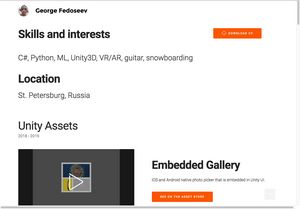
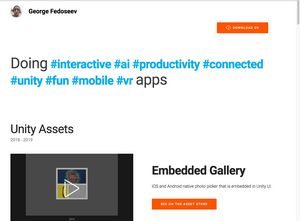
updated header

diff --git a/index.html b/index.html
@@ -38,7 +38,7 @@
 <!-- /Google Analytics -->
 
 
-  <section id="ext_menu-e" data-rv-view="14">
+  <section id="ext_menu-e" data-rv-view="10">
 
     <nav class="navbar navbar-dropdown transparent bg-color">
         <div class="container">
@@ -71,7 +71,18 @@
 
 </section>
 
-<section class="engine"><a href="https://mobirise.info/k">develop your own website</a></section><section class="mbr-info mbr-info-extra mbr-section mbr-section-md-padding mbr-after-navbar" id="msg-box1-1u" data-rv-view="0" style="background-color: rgb(255, 255, 255); padding-top: 120px; padding-bottom: 30px;">
+<section class="engine"><a href="https://mobirise.info/c">free site builder</a></section><section class="mbr-section mbr-section__container article mbr-after-navbar" id="header3-23" data-rv-view="3" style="background-color: rgb(255, 255, 255); padding-top: 120px; padding-bottom: 40px;">
+    <div class="container">
+        <div class="row">
+            <div class="col-xs-12">
+                <h3 class="mbr-section-title display-2"><span style="font-weight: normal;">Doing</span> #interactive #ai #productivity #connected #unity #fun #mobile #vr&nbsp;<span style="font-weight: normal;">apps</span></h3>
+                
+            </div>
+        </div>
+    </div>
+</section>
+
+<section class="mbr-info mbr-info-extra mbr-section mbr-section-md-padding" id="msg-box1-1u" data-rv-view="0" style="background-color: rgb(255, 255, 255); padding-top: 0px; padding-bottom: 0px;">
 
     
     <div class="container">
@@ -84,7 +95,7 @@
             <div class="mbr-table-md-up">
                 <div class="mbr-table-cell mbr-right-padding-md-up col-md-8 text-xs-center text-md-left">
                     
-                    <h3 class="mbr-info-title mbr-section-title display-2">Skills and interests</h3>
+                    
                 </div>
 
                 <div class="mbr-table-cell col-md-4">
@@ -97,40 +108,7 @@
     </div>
 </section>
 
-<section class="mbr-section article mbr-section__container" id="content1-s" data-rv-view="3" style="background-color: rgb(255, 255, 255); padding-top: 20px; padding-bottom: 20px;">
-
-    <div class="container">
-        <div class="row">
-            <div class="col-xs-12 lead"><p>
-</p><p>C#, Python, ML, Unity3D, VR/AR, guitar, snowboarding</p></div>
-        </div>
-    </div>
-
-</section>
-
-<section class="mbr-section mbr-section__container article" id="header3-v" data-rv-view="5" style="background-color: rgb(255, 255, 255); padding-top: 20px; padding-bottom: 20px;">
-    <div class="container">
-        <div class="row">
-            <div class="col-xs-12">
-                <h3 class="mbr-section-title display-2">Location</h3>
-                
-            </div>
-        </div>
-    </div>
-</section>
-
-<section class="mbr-section article mbr-section__container" id="content1-q" data-rv-view="7" style="background-color: rgb(255, 255, 255); padding-top: 0px; padding-bottom: 20px;">
-
-    <div class="container">
-        <div class="row">
-            <div class="col-xs-12 lead"><p>
-</p><p>St. Petersburg, Russia</p></div>
-        </div>
-    </div>
-
-</section>
-
-<section class="mbr-section mbr-section__container article" id="header3-1w" data-rv-view="9" style="background-color: rgb(255, 255, 255); padding-top: 60px; padding-bottom: 0px;">
+<section class="mbr-section mbr-section__container article" id="header3-1w" data-rv-view="5" style="background-color: rgb(255, 255, 255); padding-top: 60px; padding-bottom: 0px;">
     <div class="container">
         <div class="row">
             <div class="col-xs-12">
@@ -141,7 +119,7 @@
     </div>
 </section>
 
-<section class="mbr-section" id="msg-box4-1z" data-rv-view="11" style="background-color: rgb(255, 255, 255); padding-top: 40px; padding-bottom: 40px;">
+<section class="mbr-section" id="msg-box4-1z" data-rv-view="7" style="background-color: rgb(255, 255, 255); padding-top: 40px; padding-bottom: 40px;">
 
     
     <div class="container">
@@ -175,7 +153,7 @@
 
 </section>
 
-<section class="mbr-section" id="msg-box4-1v" data-rv-view="16" style="background-color: rgb(255, 255, 255); padding-top: 40px; padding-bottom: 40px;">
+<section class="mbr-section" id="msg-box4-1v" data-rv-view="12" style="background-color: rgb(255, 255, 255); padding-top: 40px; padding-bottom: 40px;">
 
     
     <div class="container">
@@ -209,7 +187,7 @@
 
 </section>
 
-<section class="mbr-section" id="msg-box4-20" data-rv-view="19" style="background-color: rgb(255, 255, 255); padding-top: 40px; padding-bottom: 40px;">
+<section class="mbr-section" id="msg-box4-20" data-rv-view="15" style="background-color: rgb(255, 255, 255); padding-top: 40px; padding-bottom: 40px;">
 
     
     <div class="container">
@@ -243,7 +221,7 @@
 
 </section>
 
-<section class="mbr-section mbr-section__container article" id="header3-1m" data-rv-view="22" style="background-color: rgb(0, 0, 0); padding-top: 60px; padding-bottom: 0px;">
+<section class="mbr-section mbr-section__container article" id="header3-1m" data-rv-view="18" style="background-color: rgb(0, 0, 0); padding-top: 60px; padding-bottom: 0px;">
     <div class="container">
         <div class="row">
             <div class="col-xs-12">
@@ -254,7 +232,7 @@
     </div>
 </section>
 
-<section class="mbr-section" id="msg-box4-1n" data-rv-view="24" style="background-color: rgb(0, 0, 0); padding-top: 40px; padding-bottom: 120px;">
+<section class="mbr-section" id="msg-box4-1n" data-rv-view="20" style="background-color: rgb(0, 0, 0); padding-top: 40px; padding-bottom: 120px;">
 
     
     <div class="container">
@@ -288,7 +266,7 @@
 
 </section>
 
-<section class="mbr-section" id="msg-box6-m" data-rv-view="27" style="background-image: url(assets/images/coffe-with-kate-2000x1333.jpg); padding-top: 80px; padding-bottom: 80px;">
+<section class="mbr-section" id="msg-box6-m" data-rv-view="23" style="background-image: url(assets/images/coffe-with-kate-2000x1333.jpg); padding-top: 80px; padding-bottom: 80px;">
 
     <div class="mbr-overlay" style="opacity: 0.7; background-color: rgb(0, 0, 0);">
     </div>
@@ -323,7 +301,7 @@
 
 </section>
 
-<section class="mbr-section mbr-section__container article" id="header3-y" data-rv-view="30" style="background-color: rgb(255, 255, 255); padding-top: 60px; padding-bottom: 40px;">
+<section class="mbr-section mbr-section__container article" id="header3-y" data-rv-view="26" style="background-color: rgb(255, 255, 255); padding-top: 60px; padding-bottom: 40px;">
     <div class="container">
         <div class="row">
             <div class="col-xs-12">
@@ -334,7 +312,7 @@
     </div>
 </section>
 
-<section class="mbr-section" id="msg-box4-1q" data-rv-view="32" style="background-color: rgb(242, 242, 242); padding-top: 40px; padding-bottom: 40px;">
+<section class="mbr-section" id="msg-box4-1q" data-rv-view="28" style="background-color: rgb(242, 242, 242); padding-top: 40px; padding-bottom: 40px;">
 
     
     <div class="container">
@@ -368,7 +346,7 @@
 
 </section>
 
-<section class="mbr-section" id="msg-box4-18" data-rv-view="35" style="background-color: rgb(242, 242, 242); padding-top: 40px; padding-bottom: 40px;">
+<section class="mbr-section" id="msg-box4-18" data-rv-view="31" style="background-color: rgb(242, 242, 242); padding-top: 40px; padding-bottom: 40px;">
 
     
     <div class="container">
@@ -402,7 +380,7 @@
 
 </section>
 
-<section class="mbr-section" id="msg-box4-16" data-rv-view="38" style="background-color: rgb(242, 242, 242); padding-top: 40px; padding-bottom: 40px;">
+<section class="mbr-section" id="msg-box4-16" data-rv-view="34" style="background-color: rgb(242, 242, 242); padding-top: 40px; padding-bottom: 40px;">
 
     
     <div class="container">
@@ -436,7 +414,7 @@
 
 </section>
 
-<section class="mbr-section" id="msg-box4-11" data-rv-view="41" style="background-color: rgb(242, 242, 242); padding-top: 40px; padding-bottom: 40px;">
+<section class="mbr-section" id="msg-box4-11" data-rv-view="37" style="background-color: rgb(242, 242, 242); padding-top: 40px; padding-bottom: 40px;">
 
     
     <div class="container">
@@ -470,7 +448,7 @@
 
 </section>
 
-<section class="mbr-section" id="msg-box4-12" data-rv-view="44" style="background-color: rgb(242, 242, 242); padding-top: 40px; padding-bottom: 40px;">
+<section class="mbr-section" id="msg-box4-12" data-rv-view="40" style="background-color: rgb(242, 242, 242); padding-top: 40px; padding-bottom: 40px;">
 
     
     <div class="container">
@@ -504,7 +482,7 @@
 
 </section>
 
-<section class="mbr-section" id="msg-box4-13" data-rv-view="47" style="background-color: rgb(242, 242, 242); padding-top: 40px; padding-bottom: 40px;">
+<section class="mbr-section" id="msg-box4-13" data-rv-view="43" style="background-color: rgb(242, 242, 242); padding-top: 40px; padding-bottom: 40px;">
 
     
     <div class="container">
@@ -538,7 +516,7 @@
 
 </section>
 
-<section class="mbr-section mbr-section__container article" id="header3-14" data-rv-view="50" style="background-color: rgb(255, 255, 255); padding-top: 100px; padding-bottom: 40px;">
+<section class="mbr-section mbr-section__container article" id="header3-14" data-rv-view="46" style="background-color: rgb(255, 255, 255); padding-top: 100px; padding-bottom: 40px;">
     <div class="container">
         <div class="row">
             <div class="col-xs-12">
@@ -549,7 +527,7 @@
     </div>
 </section>
 
-<section class="mbr-section" id="msg-box4-15" data-rv-view="52" style="background-color: rgb(242, 242, 242); padding-top: 40px; padding-bottom: 40px;">
+<section class="mbr-section" id="msg-box4-15" data-rv-view="48" style="background-color: rgb(242, 242, 242); padding-top: 40px; padding-bottom: 40px;">
 
     
     <div class="container">
@@ -583,7 +561,7 @@
 
 </section>
 
-<section class="mbr-section mbr-section__container article" id="header3-k" data-rv-view="55" style="background-color: rgb(255, 255, 255); padding-top: 80px; padding-bottom: 20px;">
+<section class="mbr-section mbr-section__container article" id="header3-k" data-rv-view="51" style="background-color: rgb(255, 255, 255); padding-top: 80px; padding-bottom: 20px;">
     <div class="container">
         <div class="row">
             <div class="col-xs-12">
@@ -594,7 +572,7 @@
     </div>
 </section>
 
-<section class="mbr-section" id="msg-box6-o" data-rv-view="57" style="background-image: url(assets/images/pmmap-header-2000x1337.jpg); padding-top: 40px; padding-bottom: 40px;">
+<section class="mbr-section" id="msg-box6-o" data-rv-view="53" style="background-image: url(assets/images/pmmap-header-2000x1337.jpg); padding-top: 40px; padding-bottom: 40px;">
 
     
     <div class="container">
@@ -628,7 +606,7 @@
 
 </section>
 
-<section class="mbr-section mbr-section__container article" id="header3-21" data-rv-view="69" style="background-color: rgb(255, 255, 255); padding-top: 80px; padding-bottom: 20px;">
+<section class="mbr-section mbr-section__container article" id="header3-21" data-rv-view="56" style="background-color: rgb(255, 255, 255); padding-top: 80px; padding-bottom: 20px;">
     <div class="container">
         <div class="row">
             <div class="col-xs-12">
@@ -639,7 +617,7 @@
     </div>
 </section>
 
-<section class="mbr-section mbr-parallax-background" id="msg-box6-22" data-rv-view="71" style="background-image: url(assets/images/cloudy-sky-4f4811ade0045-hires-2000x1333.jpg); padding-top: 80px; padding-bottom: 80px;">
+<section class="mbr-section mbr-parallax-background" id="msg-box6-22" data-rv-view="58" style="background-image: url(assets/images/cloudy-sky-4f4811ade0045-hires-2000x1333.jpg); padding-top: 80px; padding-bottom: 80px;">
 
     <div class="mbr-overlay" style="opacity: 0.3; background-color: rgb(0, 0, 0);">
     </div>
@@ -674,7 +652,7 @@
 
 </section>
 
-<section class="mbr-section mbr-section__container article" id="header3-i" data-rv-view="60" style="background-color: rgb(255, 255, 255); padding-top: 80px; padding-bottom: 20px;">
+<section class="mbr-section mbr-section__container article" id="header3-i" data-rv-view="61" style="background-color: rgb(255, 255, 255); padding-top: 80px; padding-bottom: 20px;">
     <div class="container">
         <div class="row">
             <div class="col-xs-12">
@@ -685,7 +663,7 @@
     </div>
 </section>
 
-<section class="mbr-section" id="msg-box6-j" data-rv-view="62" style="background-image: url(assets/images/space-purple-1920x1200.jpg); padding-top: 80px; padding-bottom: 80px;">
+<section class="mbr-section" id="msg-box6-j" data-rv-view="63" style="background-image: url(assets/images/space-purple-1920x1200.jpg); padding-top: 80px; padding-bottom: 80px;">
 
     <div class="mbr-overlay" style="opacity: 0.3; background-color: rgb(0, 0, 0);">
     </div>
@@ -720,7 +698,7 @@
 
 </section>
 
-<section class="mbr-section mbr-section__container article" id="header3-w" data-rv-view="65" style="background-color: rgb(255, 255, 255); padding-top: 140px; padding-bottom: 20px;">
+<section class="mbr-section mbr-section__container article" id="header3-w" data-rv-view="66" style="background-color: rgb(255, 255, 255); padding-top: 140px; padding-bottom: 20px;">
     <div class="container">
         <div class="row">
             <div class="col-xs-12">
@@ -731,7 +709,7 @@
     </div>
 </section>
 
-<section class="mbr-section article mbr-section__container" id="content1-x" data-rv-view="67" style="background-color: rgb(255, 255, 255); padding-top: 0px; padding-bottom: 140px;">
+<section class="mbr-section article mbr-section__container" id="content1-x" data-rv-view="68" style="background-color: rgb(255, 255, 255); padding-top: 0px; padding-bottom: 140px;">
 
     <div class="container">
         <div class="row">

diff --git a/assets/mobirise/css/mbr-additional.css b/assets/mobirise/css/mbr-additional.css
@@ -6,6 +6,8 @@
 
 
 
+
+
 body,
 input,
 textarea,
@@ -413,24 +415,29 @@ h6,
 .mbr-gallery-filter li:hover {
   color: #fc5500;
 }
+#header3-23 .mbr-section-title,
+#header3-23 .mbr-section-subtitle {
+  text-align: center;
+}
+#header3-23 .mbr-section-title {
+  color: #00aeec;
+  text-align: left;
+}
+#header3-23 .mbr-section-title SPAN {
+  color: #3e3e3e;
+  font-size: 60px;
+}
 #msg-box1-1u .btn {
   font-size: 12px;
 }
-#content1-s P {
-  font-size: 32px;
-}
-#header3-v .mbr-section-title,
-#header3-v .mbr-section-subtitle {
-  text-align: center;
-}
-#header3-v .mbr-section-title {
+#msg-box1-1u H2 {
+  color: #00aeec;
+  font-size: 30px;
   text-align: left;
+  font-family: 'Roboto', sans-serif;
 }
-#header3-v .mbr-section-subtitle {
-  text-align: left;
-}
-#content1-q P {
-  font-size: 32px;
+#msg-box1-1u B {
+  color: #007ee5;
 }
 #header3-1w .mbr-section-title,
 #header3-1w .mbr-section-subtitle {
@@ -448,6 +455,7 @@ h6,
 #ext_menu-e .navbar-caption {
   color: #ffffff;
   font-size: 25px;
+  font-family: 'Roboto', sans-serif;
 }
 #ext_menu-e .navbar-toggler {
   color: #ffffff;
